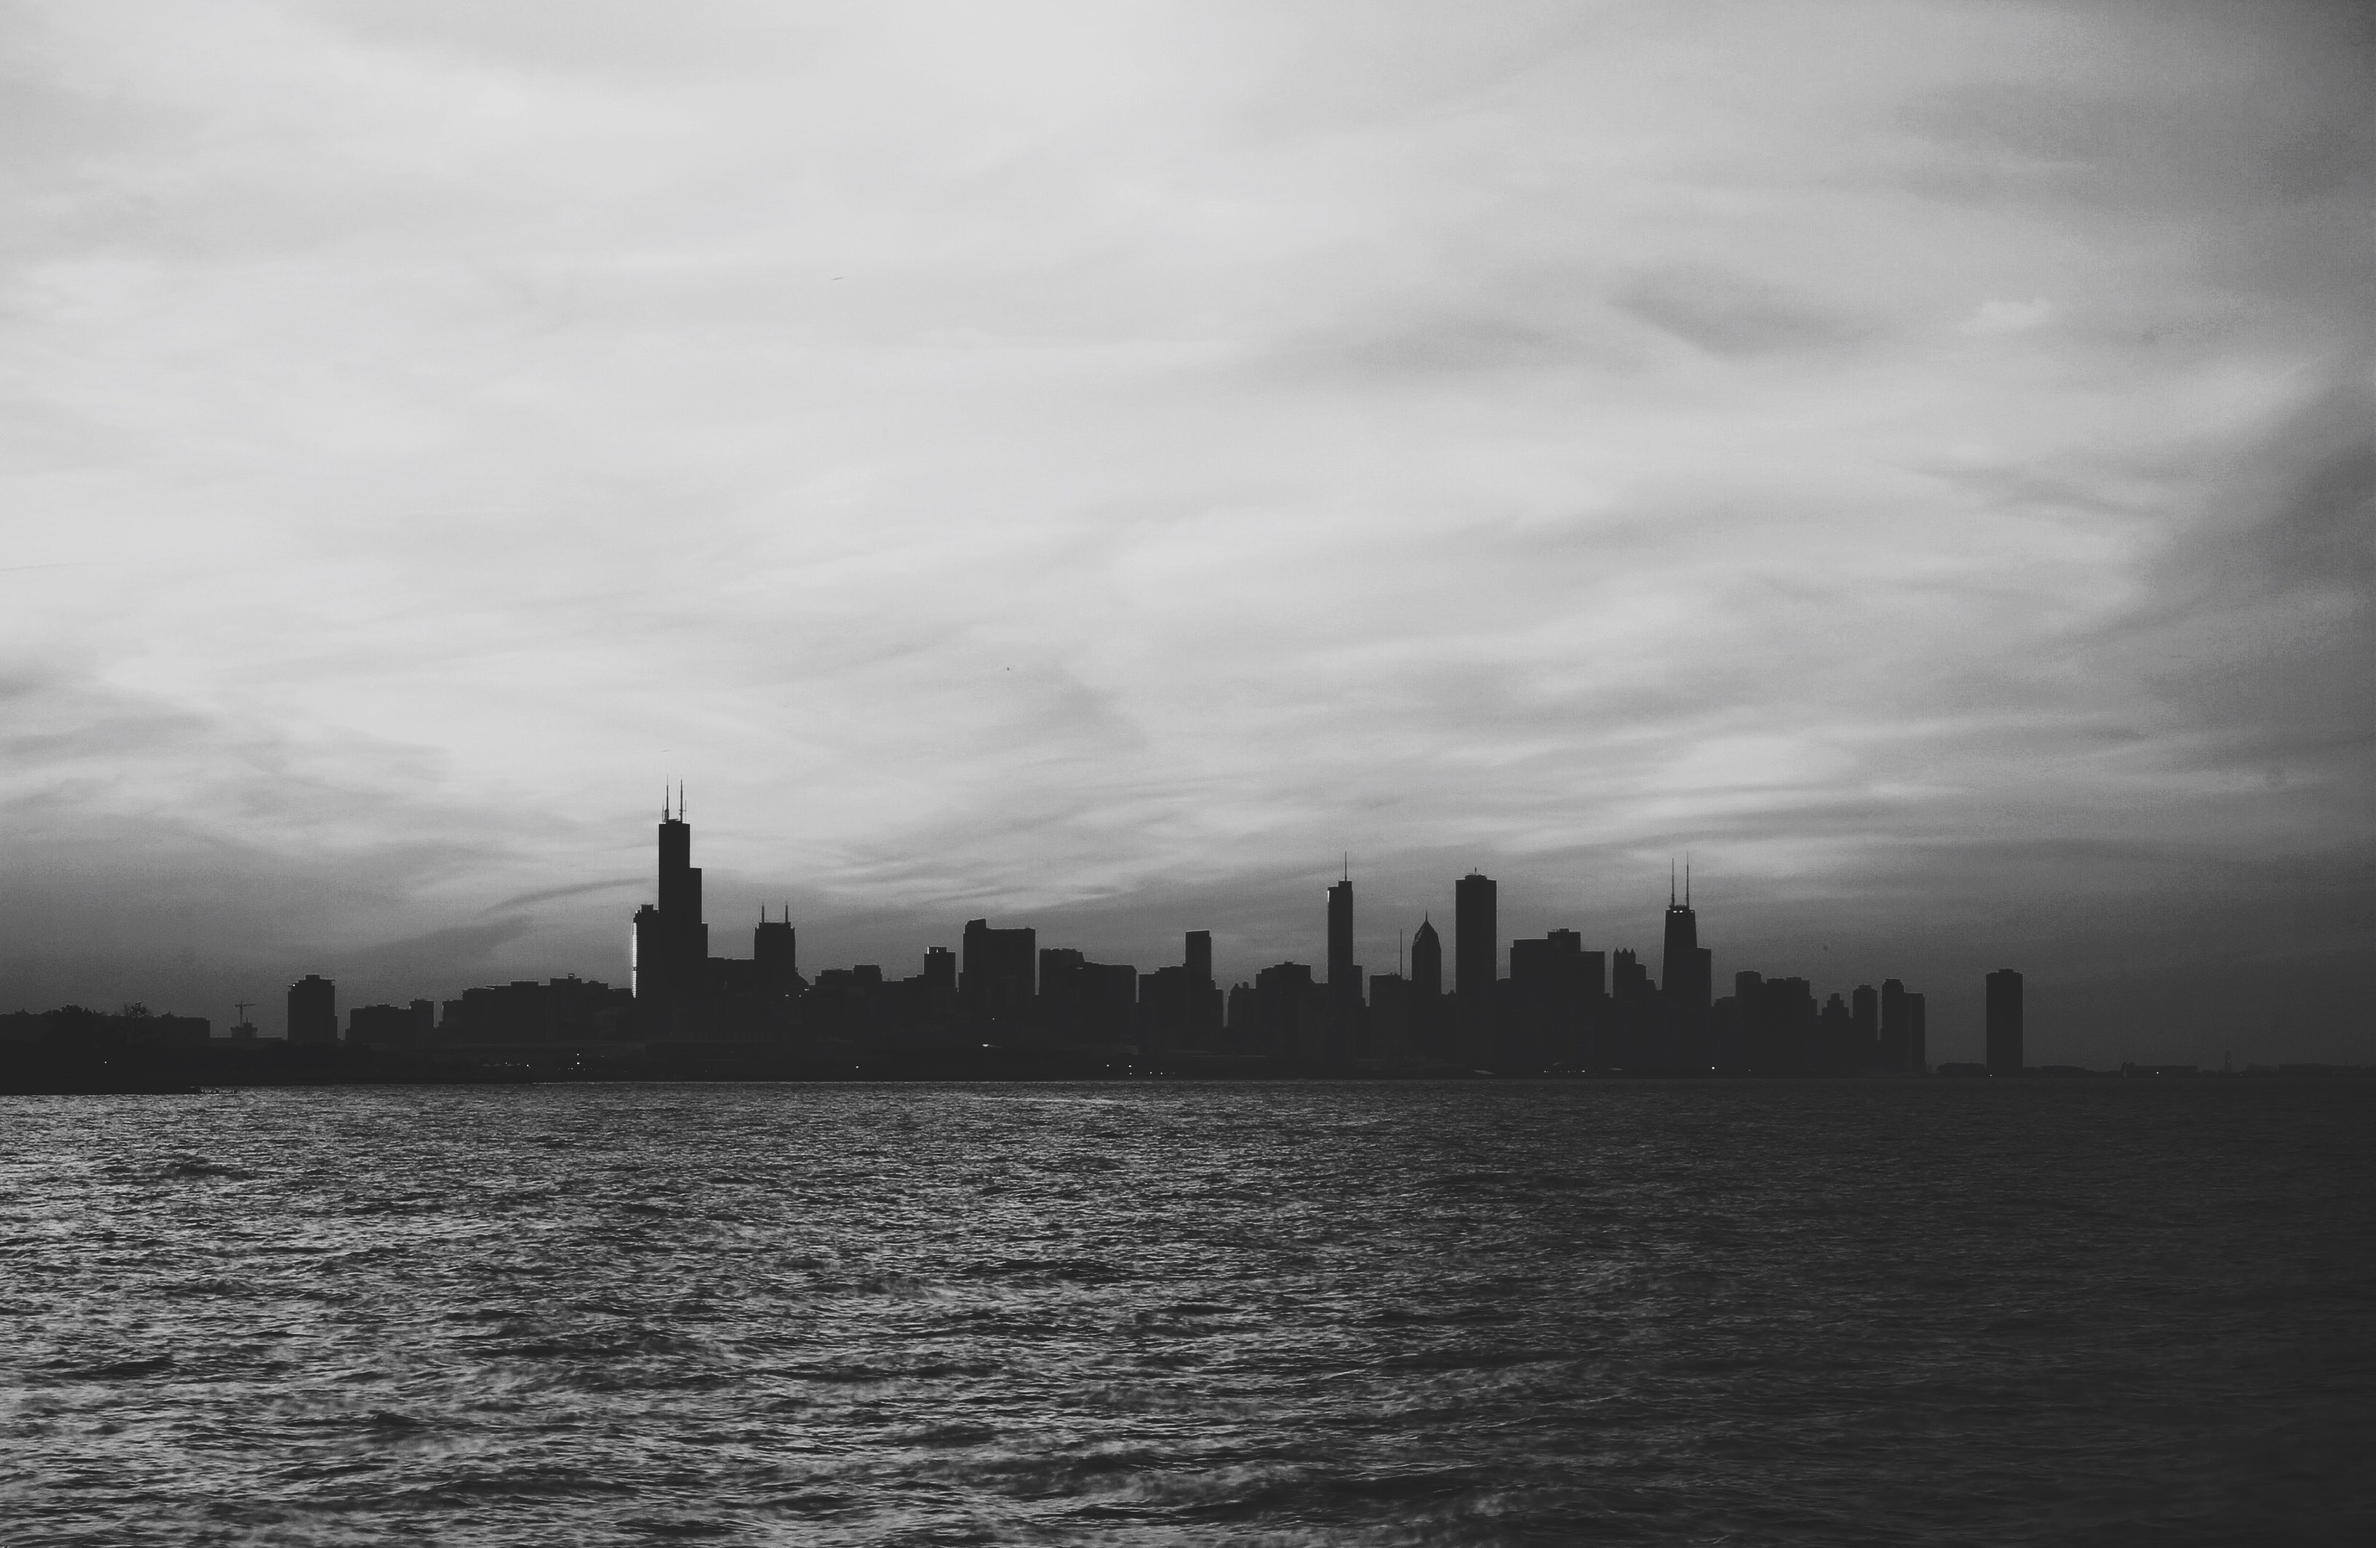
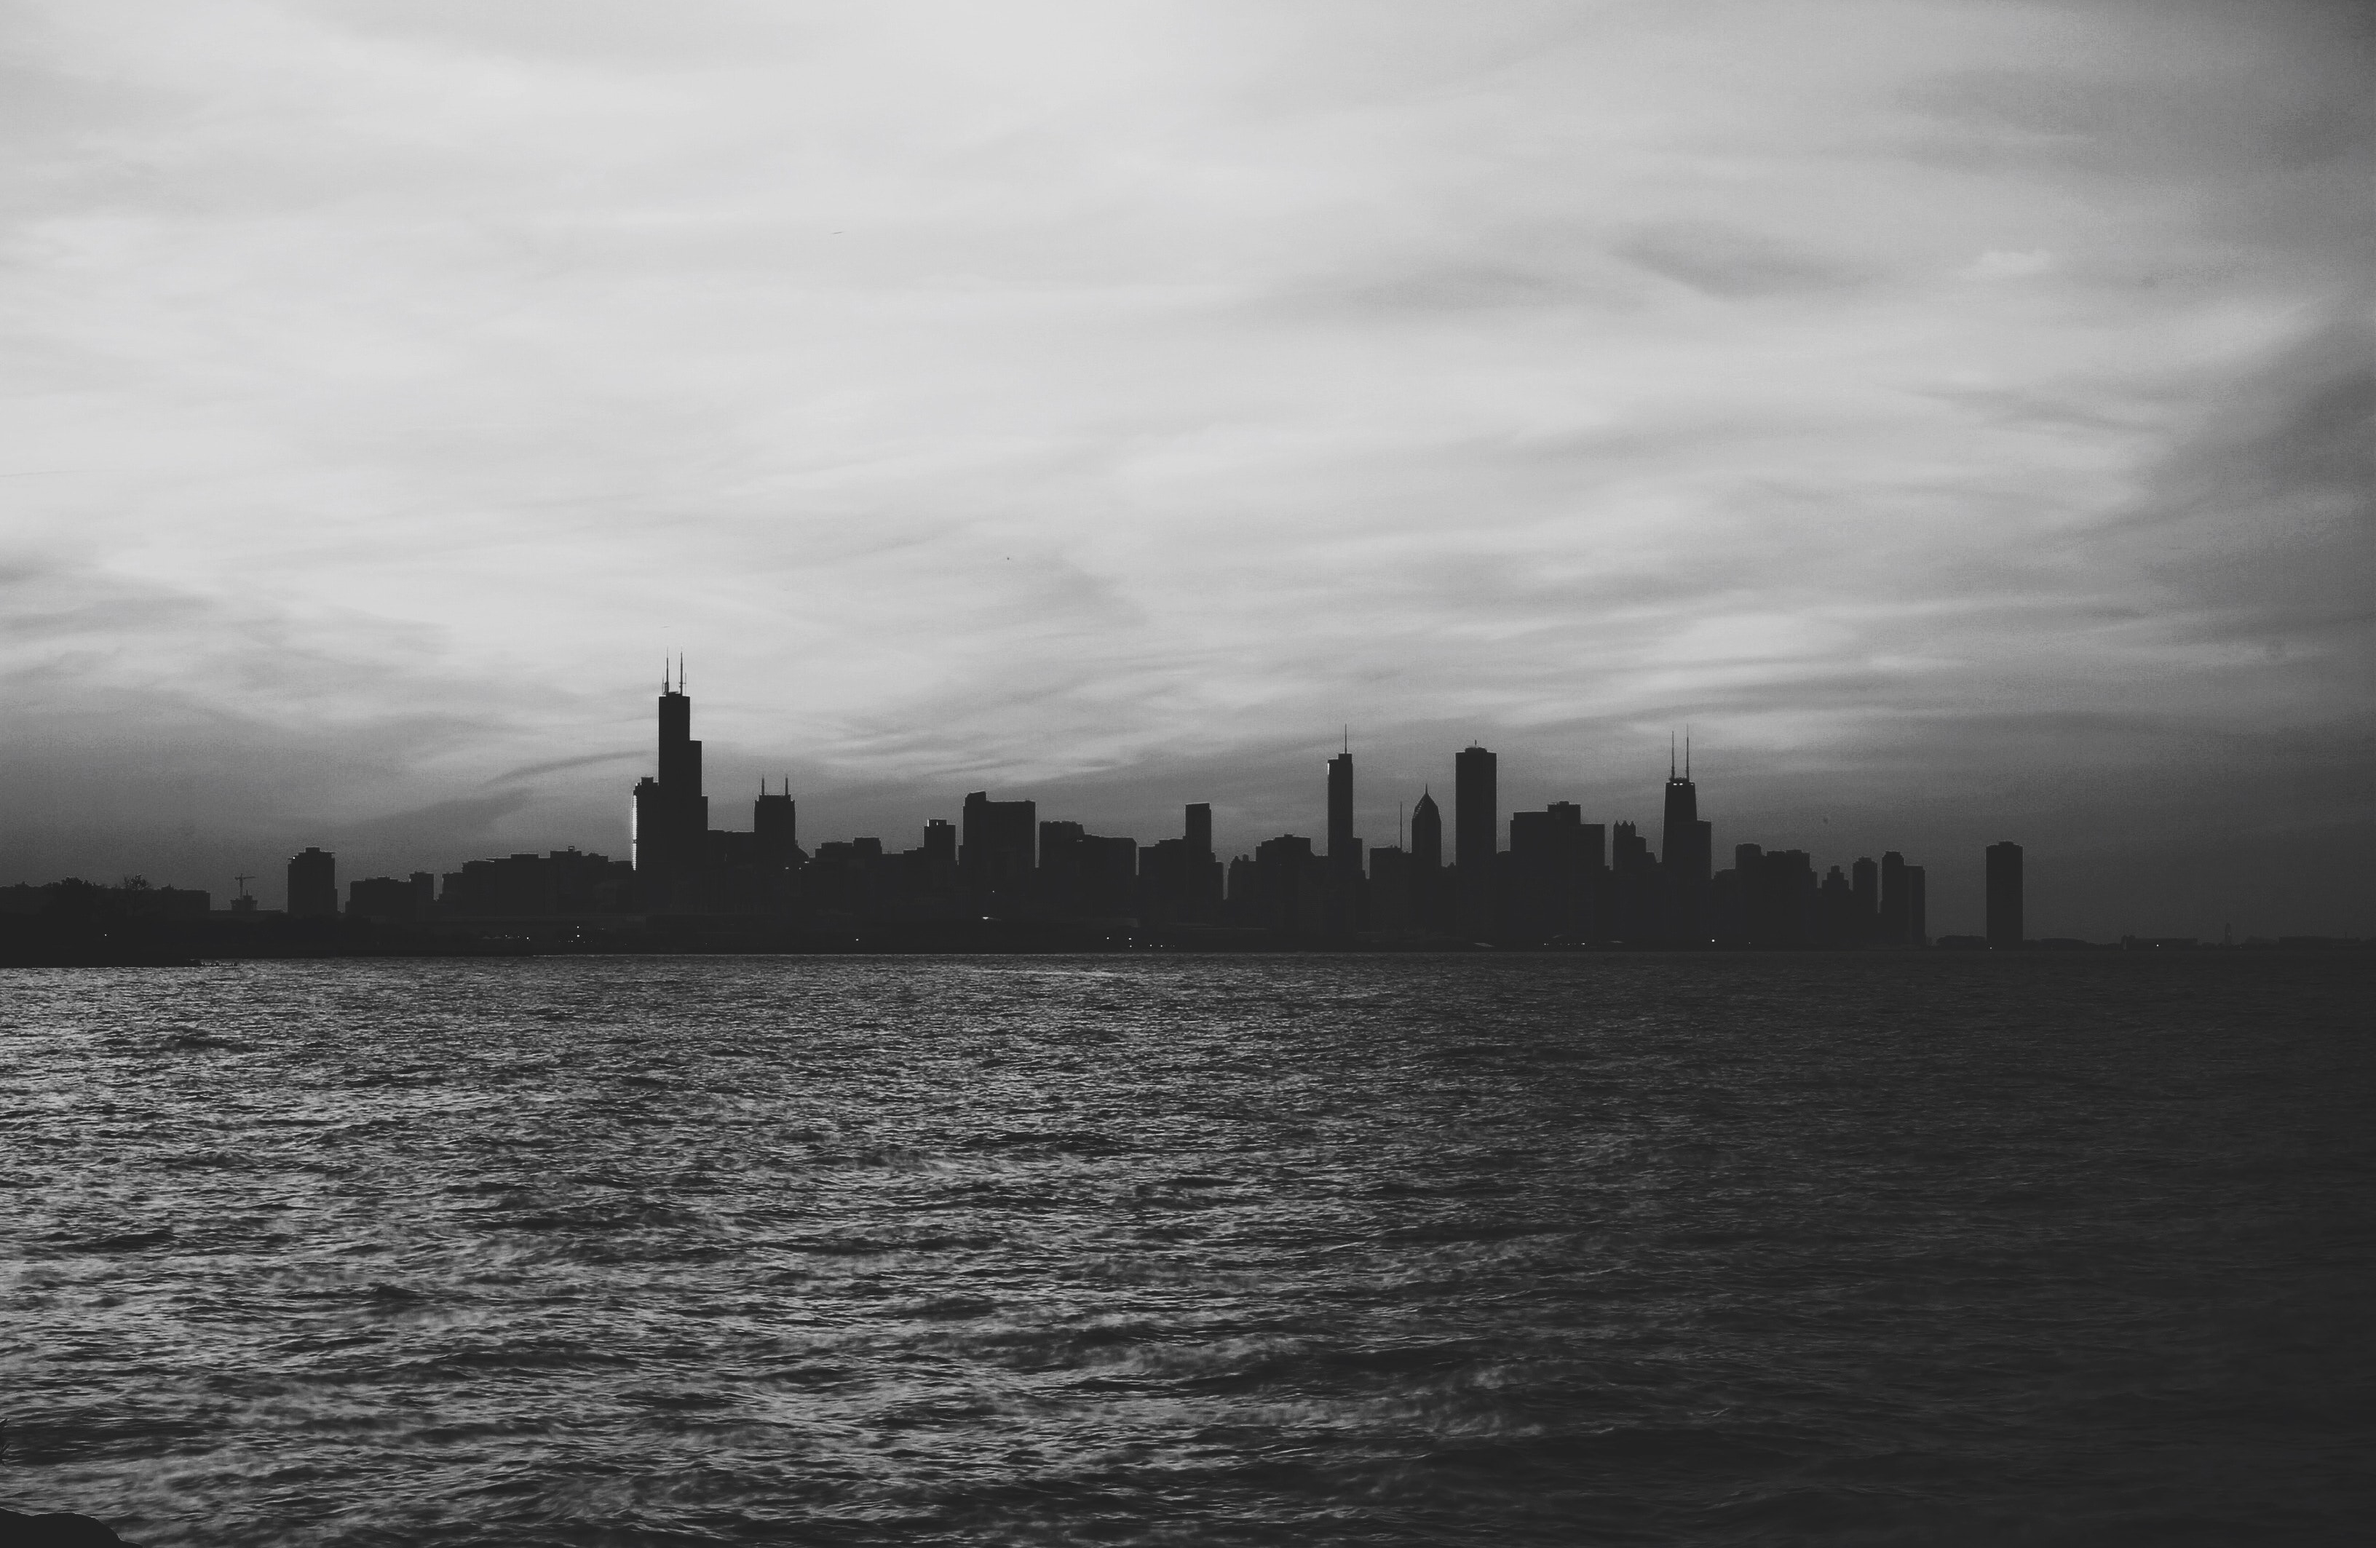
new

diff --git a/index.htm b/index.htm
@@ -70,7 +70,7 @@ body {
   width:100%;
   height:100%;
   background-color: #fff;
-  background: url(images/cover_4.jpg) no-repeat;
+  background: url(images/cover.jpg) no-repeat;
   background-size: cover;
   -webkit-background-size: cover;
   -o-background-size: cover;
